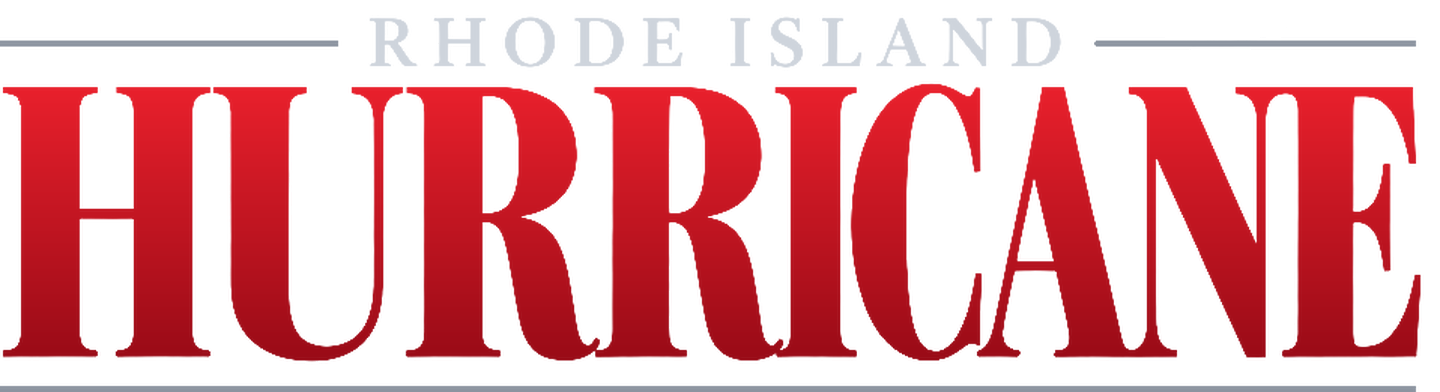
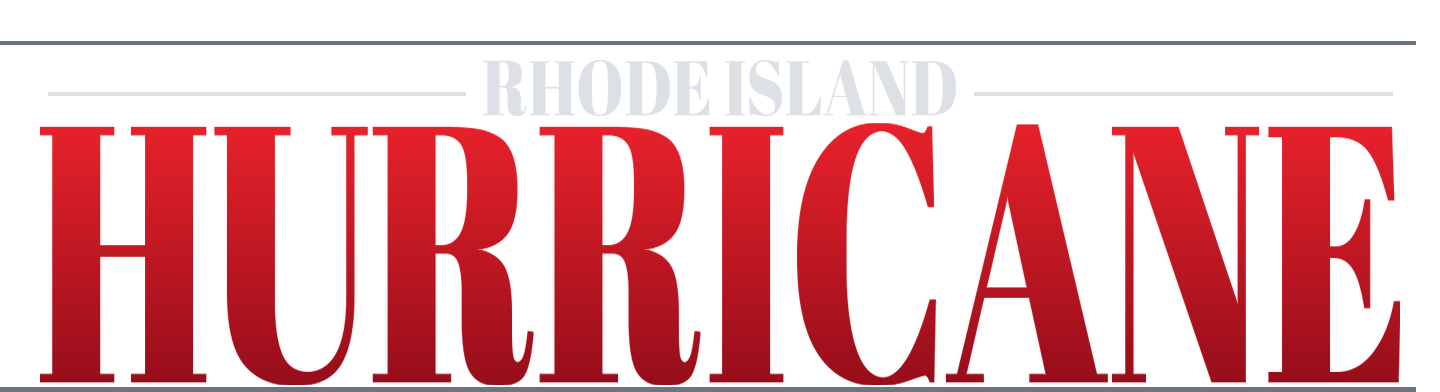
Masthead lettering now uses the same typeface as New York City Scream (Abril Fatface, red gradient, silver top line)
Claude-Session: https://claude.ai/code/session_01Rvhfw5TtgKAkgbhKuBbn5L

diff --git a/sw.js b/sw.js
@@ -1,5 +1,5 @@
 /* Rhode Island Hurricane app: fresh news first, saved copy when offline. */
-const V='hurricane-v504';
+const V='hurricane-v505';
 const CORE=['/','/img/hurricane-masthead.png'];
 self.addEventListener('install',e=>{e.waitUntil(caches.open(V).then(c=>c.addAll(CORE)).catch(()=>{}));self.skipWaiting();});
 self.addEventListener('activate',e=>{e.waitUntil(caches.keys().then(ks=>Promise.all(ks.filter(k=>k!==V).map(k=>caches.delete(k)))).then(()=>self.clients.claim()));});

diff --git a/index.html b/index.html
@@ -1302,7 +1302,7 @@ h2.room{text-shadow:0 2px 0 #0D0D0F,0 0 30px rgba(13,13,15,.7)!important;filter:
 <div class="wrap">
   <header class="mast">
     <div>
-      <h1 class="logo lgimg"><img src="img/hurricane-masthead.png?v=4" alt="Rhode Island Hurricane" width="1440" height="392"></h1>
+      <h1 class="logo lgimg"><img src="img/hurricane-masthead.png?v=5" alt="Rhode Island Hurricane" width="1440" height="392"></h1>
       
       
     </div>
